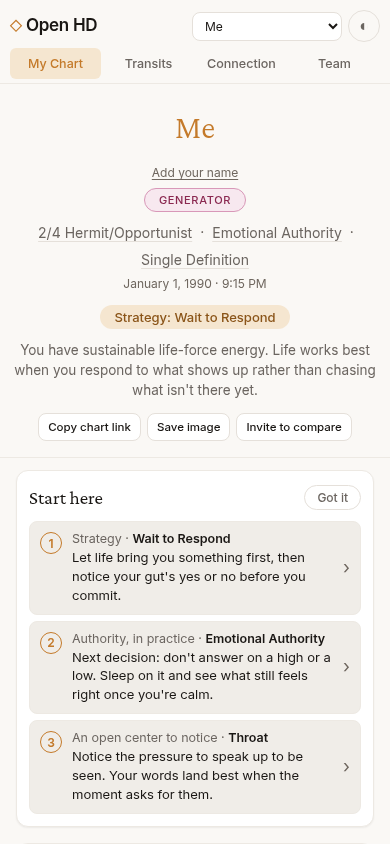
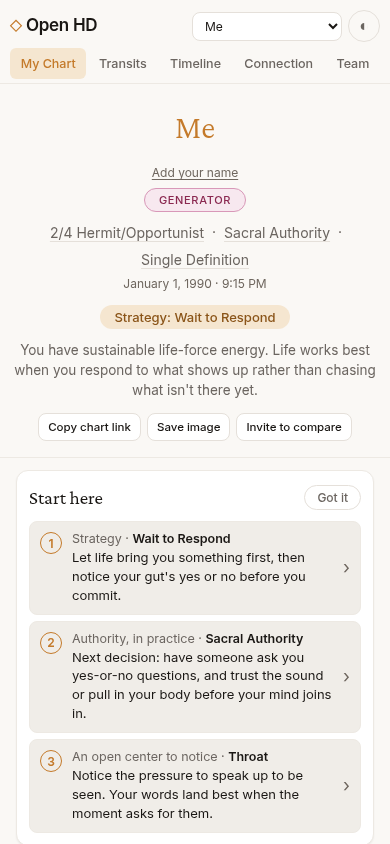
Walkthrough, screenshots and recovery notes for Start here on the new main
Screenshots retaken from this branch at 390x844 and 800x1280; the "before"
shots and position table now compare against main, not ux-tablet-pass.
The tablet pass walkthrough moves to walkthrough/WALKTHROUGH-tablet-pass.md.

diff --git a/WALKTHROUGH.md b/WALKTHROUGH.md
@@ -1,63 +1,63 @@
-# Walkthrough — tablet pass (branch `ux-tablet-pass`)
+# Walkthrough — Start here (branch `start-here-on-main`, on top of main with the tablet pass)
 
-Narrated video (118 s, Kokoro voice, signed as Uni): `~/.local/share/uni/videos/ohd-tablet-pass.mp4`
-(tailnet: https://uni.taildf9ce2.ts.net:8444/ohd-tablet-pass.mp4).
+No video for this one. The tablet pass's own walkthrough is now `walkthrough/WALKTHROUGH-tablet-pass.md`.
 
 ## How to run it
 
-- **On the Daylight (tailnet):** open https://uni.taildf9ce2.ts.net:8533/ — the static build of this branch.
-  It has no Worker behind it, so "Save image" and Sync don't work there (they need openhumandesign.com).
-- **Locally:** `npm install && npm run dev`, then open the printed URL.
-- **Test data:** on the entry form tap "Enter UTC offset manually instead" and enter
-  Ada · 1990-06-15 · 14:30 · −6, then (people menu → "+ New chart…") Ben · 1985-03-20 · 08:00 · 0 and
-  Cy · 1992-11-02 · 12:00 · 9. Switch back to Ada. Connection: pick Ben. Team: tick all three.
+- **On a phone or the Daylight (tailnet):** https://uni.taildf9ce2.ts.net:8534/ — a static build of this branch.
+  Use a private window (or clear site data) to see it as a newcomer. No Worker behind it, so "Save image" and
+  Sync don't work there.
+- **Locally:** `npm run dev`, open the printed URL.
+- **Test data:** tap "Enter UTC offset manually instead", leave Name blank, enter 1990-01-01 · 21:15 · offset 0.
+  (That chart has a birth-time-sensitive Moon, so the reliability note shows.)
+- Screenshots: `walkthrough/start-here/` (390×844 and 800×1280, from the running dev build of this branch;
+  `E2E_URL=<dev url> node walkthrough/start-here/shoot.mjs` retakes them). `before-390.png` (full page) and
+  `before-800.png` are main without this change.
 
 ## Steps
 
-1. **Before — the page ran off the edge** (`walkthrough/01-before-800.png`).
-   On main at 800 px wide, the readings column is squeezed and the page scrolls sideways.
-   *"This is the chart on main at the Daylight's size. The readings column runs off the right edge."*
+1. **Name is optional, really** (`walkthrough/start-here/01-entry-390.png`).
+   The name field just says "(optional)". On main, a chart made without a name is gone on reload.
+   *"A newcomer can leave the name blank."*
 
-2. **After — one column below tablet width** (`02-chart-800.png`, `03-readings-800.png`).
-   Below 1024 px the bodygraph sits full-width on top and the readings follow. Tiles and cards carry a quiet ›.
-   *"Now the chart stacks. A layout test fails if any screen scrolls sideways at phone, tablet or desktop width."*
+2. **The first chart is kept, as "Me", with Start here under the banner** (`02-start-here-390.png`).
+   "Add your name" sits under the title. The card has three steps: strategy, authority in practice, and one
+   open (or undefined) center to notice, each with one practical line.
+   *"Their first chart is kept anyway, as Me. Under the type banner, a calm Start here card gives three steps."*
 
-3. **Tap a gate — the detail opens in place** (`04-gate-sheet.png`).
-   Tap Gate 34 on the bodygraph: a sheet with its activation, the three readings, the active line, all six
-   lines, channels and center. The gate stays lit behind it.
-   *"Tap anything and it opens in place, as a sheet on the tablet."*
+3. **Each step opens the detail panel** (`03-authority-sheet-390.png`, `04-center-sheet-390.png`).
+   Tap step 2: Sacral Authority opens as a sheet. Step 3 opens the Throat center with its gates and channels.
+   It's the same panel the chart, Transits and Timeline use.
+   *"Each step opens the same detail panel as everything else in the app."*
 
-4. **Links onward, with Back** (`05-line-onward.png`, `06-profile.png`).
-   Tap "2 · Strength that won't be summoned": the line opens, with what a second line means in general.
-   Back returns. Foundation tiles (type, authority, profile, definition, cross, circuit, variable) open the same way.
-   *"Everything in the panel links onward, so you never have to switch views to look something up."*
+4. **On phones the reading comes first** (`05-foundation-390.png`; full page: `before-390.png` vs `10-after-full-390.png`).
+   The Foundation moves up, right after the card, as two columns of compact tiles (tap for the full text). The
+   planet columns under the bodygraph give way to the Planets tab. The reliability note now reads: "Your Moon
+   could change if your birth time is off by 15 minutes or less. The rest of your foundation holds within that
+   range. If you know your time to the minute, the chart as shown is right."
+   *"The Foundation starts about one screen down instead of one point six; the tabs at about two and a third instead of three."*
 
-5. **Connection and Team** (`07-connection-list.png`, `08-connection-channel.png`, `09-team-member.png`).
-   On Connection, tap a channel under Electromagnetic: who brings each gate, and what kind of bond it is.
-   On Team, tap a role, then a person: their type, authority, profile, roles and channels.
-   *"Every channel, center, role and person opens to the pair's or the group's view."*
+5. **Rename, and "Me" stays private** (`06-rename-390.png`).
+   "Add your name" opens the edit dialog. "Me" is never put in the address bar, share links, invites, image
+   cards or the saved image's file name.
+   *"Add your name opens the edit dialog. Me never leaves this device."*
 
-6. **Wide screens — a side panel** (`10-desktop-side.png`).
-   At 1280 px the panel sits beside the chart (non-modal), so you can keep tapping the graph.
-   *"On a wide screen the same panel sits beside the chart."*
+6. **Got it is remembered; the tablet shows steps side by side** (`07-dismissed-reloaded-390.png`, `08-start-here-800.png`, `09-strategy-sheet-800.png`).
+   "Got it" hides the card for good (also for other charts). At 800 px the three steps sit in a row.
+   *"Got it hides the card, and it stays hidden after a reload."*
 
-Before/after screenshots of every view at 800×1280, light and dark: `walkthrough/ux-tablet/{before,after}/`.
+## Measured positions (top of each block, in screen heights)
 
-## On the new main (branch `tablet-on-main`)
+Same chart, dev builds of origin/main (1e11811) and this branch.
 
-The tablet pass replayed onto main after PR #10. Screenshots from the real build, 390×844 and
-800×1280: `walkthrough/tablet-on-main/` (`390-…` and `800-…`, light, plus dark for the two transit panels).
-Preview: https://uni.taildf9ce2.ts.net:8533/ now serves this branch.
+| | Foundation | Tabs | Bodygraph |
+|---|---|---|---|
+| 390×844, before (main) | 1.60 | 3.08 | 0.54 |
+| 390×844, after, card showing | **1.02** | **2.34** | 1.69 |
+| 390×844, after, card dismissed | **0.56** | **1.88** | 1.23 |
+| 800×1280, before (main) | 0.94 | 1.43 | 0.27 |
+| 800×1280, after, card showing | 1.21 | 1.68 | 0.53 |
+| 800×1280, after, card dismissed | 1.00 | 1.48 | 0.33 |
 
-7. **Transits use the same panel** (`800-light-transit-detail.png`).
-   Tap Transit Sun: the panel shows the gate's source (teal badge), your birth activations, the transiting
-   planets, and channels and center as the transit graph draws them. "Transit only" drops the birth side.
-   *"Transits open the same panel. It shows what the sky adds, and it matches the graph."*
-
-8. **The Timeline too, with timing** (`800-light-timeline-detail.png`, `390-light-timeline-detail.png`).
-   Tap a teal bar: the panel opens on that item, with how long the activation lasts and when it starts and ends.
-   *"On the Timeline, tapping a bar tells you what it is and how long it lasts."*
-
-9. **The phone nav fits** (`390-light-chart-centers.png`).
-   All five items, Timeline included, sit on one row and read in full at 360 and 390 px.
-   *"On a phone, all five sections fit on one line."*
+The tablet layout wasn't reordered (the brief asked for the phone), so there the card adds about a quarter
+screen until it's dismissed.

diff --git a/walkthrough/WALKTHROUGH-tablet-pass.md b/walkthrough/WALKTHROUGH-tablet-pass.md
@@ -1,0 +1,63 @@
+# Walkthrough — tablet pass (branch `ux-tablet-pass`)
+
+Narrated video (118 s, Kokoro voice, signed as Uni): `~/.local/share/uni/videos/ohd-tablet-pass.mp4`
+(tailnet: https://uni.taildf9ce2.ts.net:8444/ohd-tablet-pass.mp4).
+
+## How to run it
+
+- **On the Daylight (tailnet):** open https://uni.taildf9ce2.ts.net:8533/ — the static build of this branch.
+  It has no Worker behind it, so "Save image" and Sync don't work there (they need openhumandesign.com).
+- **Locally:** `npm install && npm run dev`, then open the printed URL.
+- **Test data:** on the entry form tap "Enter UTC offset manually instead" and enter
+  Ada · 1990-06-15 · 14:30 · −6, then (people menu → "+ New chart…") Ben · 1985-03-20 · 08:00 · 0 and
+  Cy · 1992-11-02 · 12:00 · 9. Switch back to Ada. Connection: pick Ben. Team: tick all three.
+
+## Steps
+
+1. **Before — the page ran off the edge** (`walkthrough/01-before-800.png`).
+   On main at 800 px wide, the readings column is squeezed and the page scrolls sideways.
+   *"This is the chart on main at the Daylight's size. The readings column runs off the right edge."*
+
+2. **After — one column below tablet width** (`02-chart-800.png`, `03-readings-800.png`).
+   Below 1024 px the bodygraph sits full-width on top and the readings follow. Tiles and cards carry a quiet ›.
+   *"Now the chart stacks. A layout test fails if any screen scrolls sideways at phone, tablet or desktop width."*
+
+3. **Tap a gate — the detail opens in place** (`04-gate-sheet.png`).
+   Tap Gate 34 on the bodygraph: a sheet with its activation, the three readings, the active line, all six
+   lines, channels and center. The gate stays lit behind it.
+   *"Tap anything and it opens in place, as a sheet on the tablet."*
+
+4. **Links onward, with Back** (`05-line-onward.png`, `06-profile.png`).
+   Tap "2 · Strength that won't be summoned": the line opens, with what a second line means in general.
+   Back returns. Foundation tiles (type, authority, profile, definition, cross, circuit, variable) open the same way.
+   *"Everything in the panel links onward, so you never have to switch views to look something up."*
+
+5. **Connection and Team** (`07-connection-list.png`, `08-connection-channel.png`, `09-team-member.png`).
+   On Connection, tap a channel under Electromagnetic: who brings each gate, and what kind of bond it is.
+   On Team, tap a role, then a person: their type, authority, profile, roles and channels.
+   *"Every channel, center, role and person opens to the pair's or the group's view."*
+
+6. **Wide screens — a side panel** (`10-desktop-side.png`).
+   At 1280 px the panel sits beside the chart (non-modal), so you can keep tapping the graph.
+   *"On a wide screen the same panel sits beside the chart."*
+
+Before/after screenshots of every view at 800×1280, light and dark: `walkthrough/ux-tablet/{before,after}/`.
+
+## On the new main (branch `tablet-on-main`)
+
+The tablet pass replayed onto main after PR #10. Screenshots from the real build, 390×844 and
+800×1280: `walkthrough/tablet-on-main/` (`390-…` and `800-…`, light, plus dark for the two transit panels).
+Preview: https://uni.taildf9ce2.ts.net:8533/ now serves this branch.
+
+7. **Transits use the same panel** (`800-light-transit-detail.png`).
+   Tap Transit Sun: the panel shows the gate's source (teal badge), your birth activations, the transiting
+   planets, and channels and center as the transit graph draws them. "Transit only" drops the birth side.
+   *"Transits open the same panel. It shows what the sky adds, and it matches the graph."*
+
+8. **The Timeline too, with timing** (`800-light-timeline-detail.png`, `390-light-timeline-detail.png`).
+   Tap a teal bar: the panel opens on that item, with how long the activation lasts and when it starts and ends.
+   *"On the Timeline, tapping a bar tells you what it is and how long it lasts."*
+
+9. **The phone nav fits** (`390-light-chart-centers.png`).
+   All five items, Timeline included, sit on one row and read in full at 360 and 390 px.
+   *"On a phone, all five sections fit on one line."*

diff --git a/PROGRESS-rebase.md b/PROGRESS-rebase.md
@@ -1,28 +1,27 @@
-# PROGRESS — tablet-on-main
+# PROGRESS — start-here-on-main
 
-Brief: ~/Code/open-human-design/BRIEF-ohd-tablet-rebase.md. Worktree ~/Code/wt/ohd-tablet-on-main,
-branch `tablet-on-main` from origin/main (923d758, natalengine 1.6.1; first built on 2951216, rebased). Not pushed.
+Brief: ~/Code/open-human-design/BRIEF-ohd-start-here-rebase.md. Worktree ~/Code/wt/ohd-start-here-on-main,
+branch `start-here-on-main` from origin/main (1e11811, tablet pass + Timeline + natalengine 1.6.1). Not pushed.
+(The tablet pass's own rebase notes are in git history: `git show 1e11811:PROGRESS-rebase.md`.)
 
-Deps: `npm ci --ignore-scripts` (sharp fails to build from source; nothing we run needs it).
+Deps: node_modules copied from ~/Code/wt/ohd-tablet-on-main (same lockfile; `npm ci` fails building sharp).
 
 ## Done
-- The 5 tablet-pass commits replayed (376b3e1..3aabd84). PR #5's dialog (`src/lib/detail-dialog.js`,
-  `#gate-detail`) is removed; Transits and Timeline open the shared panel via 'transit' / 'timeline'
-  scopes. Build + `npm test` green after the first commit.
-
-- Integration commit: transit-aware renderers in lib/details.js (birth vs transit activations,
-  transit planets, source badges, transit-only, center status from the graph model); Timeline
-  timing block inside the panel; Transits list uses data-detail; Connection theme toggle keeps
-  the panel; 5-item nav fits one row at 360/390. Tests: details.test.js (transit scope),
-  e2e.mjs, timeline-e2e.mjs, detail.mjs (Transits + Timeline), layout.mjs (+ Timeline states,
-  nav-fits check). All green against vite on 127.0.0.1:5197.
-
-- /code-review (medium) on 2951216..HEAD: fixed 5 findings (bf96780); the rest are listed in the report.
-- Screenshots: walkthrough/tablet-on-main/ (390 + 800); WALKTHROUGH.md steps 7–9 (b7b7141).
-- Preview: `sudo tailscale serve --bg --https=8533 ~/Code/wt/ohd-tablet-on-main/dist-preview`
+- Replayed the three code commits from `start-here` (1b77ebd, 1cbc52d, 3026e74). Only conflict:
+  package.json scripts (kept main's `e2e:timeline` and `e2e`, added `e2e:start`). The Start-here card
+  uses main's panel unchanged (data-detail + registerScope 'chart').
+- New on main: the share-card download was named after the chart, so a first chart saved as
+  `me-chart.png`. Fixed; tests/starthere.mjs now reads the copied link, invite, /og/card.png request
+  and download name (seen red without the fix, and red again with the share.js guard removed).
+- 389e875 (walkthrough/video/progress) not replayed as-is: WALKTHROUGH.md rewritten for this base,
+  main's tablet walkthrough moved to walkthrough/WALKTHROUGH-tablet-pass.md, no video files.
+- Screenshots retaken from this branch (walkthrough/start-here/); before-390/800 retaken from origin/main.
+- Tests (vite on 127.0.0.1:5198): npm test, build, e2e:start, detail, layout, e2e, timeline-e2e all green.
+- Preview 8534: `sudo tailscale serve --bg --https=8534 ~/Code/wt/ohd-start-here-on-main/dist-preview`
   (rebuild: `npx vite build --outDir dist-preview --emptyOutDir`; dist-preview is in .git/info/exclude).
-  curl https://uni.taildf9ce2.ts.net:8533/ → 200.
 
-## Next
-- Nothing left in the brief. Not pushed.
-- ~/Code/uni-ops/ports.md row 8533 still names ~/Code/wt/ohd-ux/dist-preview (other repo; not edited).
+## Open (carried from start-here)
+- Phone trade-off: the bodygraph now starts at 1.69 screens (main: 0.54) because the Foundation moved above it.
+- Signed-in user on a new device could get a stray "Me" if they enter a nameless chart before sync pulls.
+- No way to bring the card back after "Got it" (other than clearing site data).
+- Remove the 8534 serve when done: `sudo tailscale serve --https=8534 off`, and its row in ~/Code/uni-ops/ports.md.
